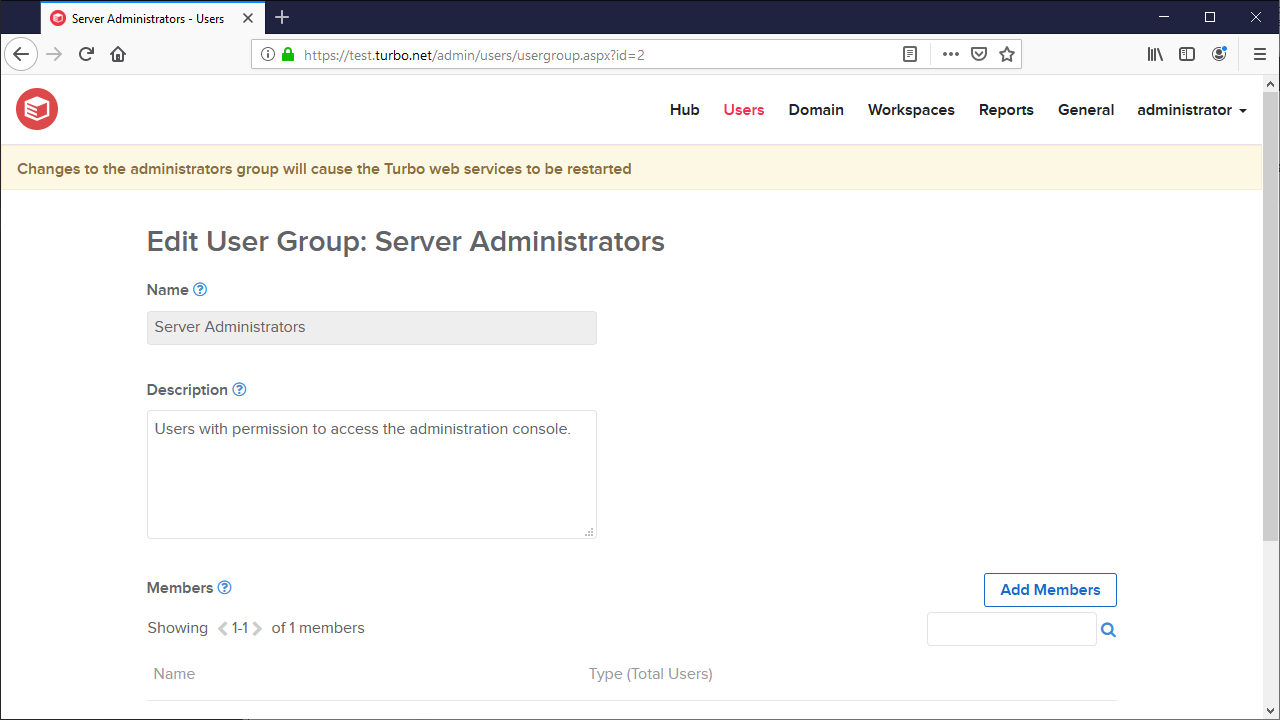
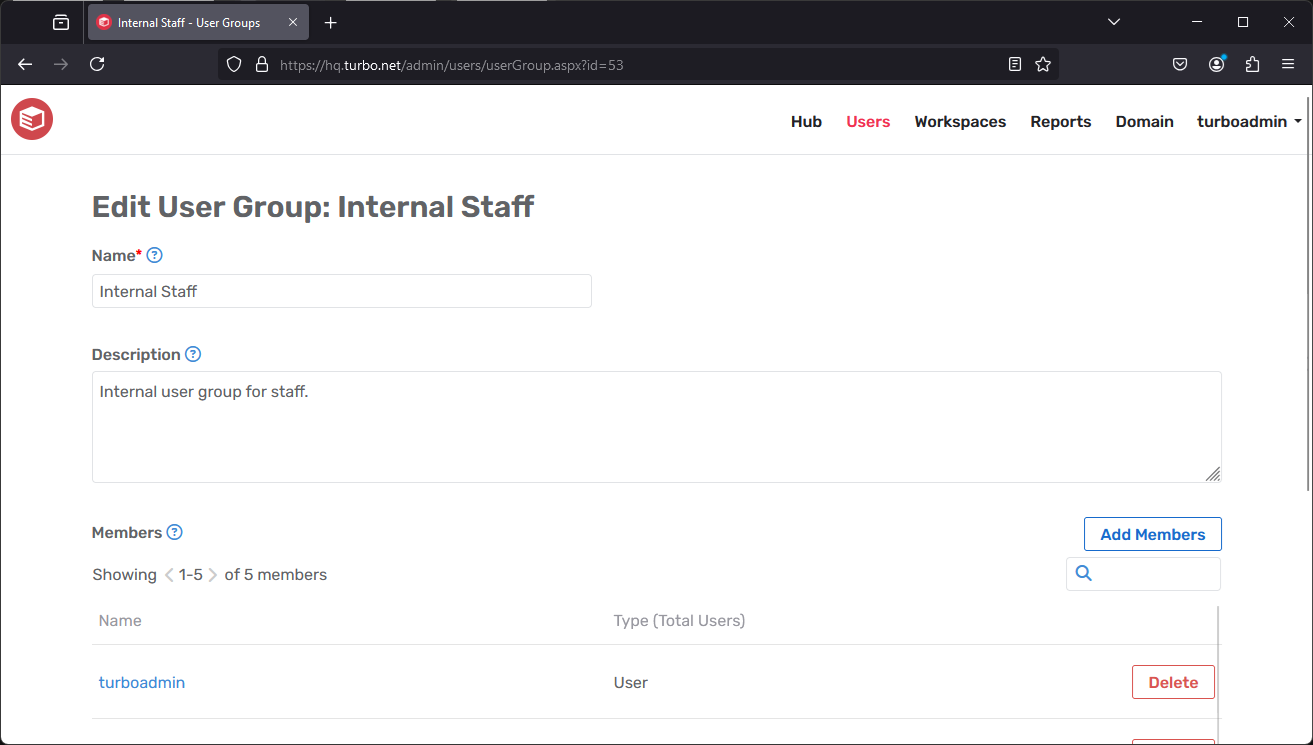
Update Users page
- Move API Keys from Hub to Users
- Add missing Users content
- Update Users screenshots

diff --git a/src/server/administration/users.md b/src/server/administration/users.md
@@ -1,22 +1,35 @@
 # Users
 
+Turbo Server users and user groups can be viewed and managed from the **Users** page on the Administration Site.
+
+Users and user groups can be created manually in the Internal directory, imported from LDAP/Active Directory directory services, or generated via Single Sign-On Authentication Providers.
+
+From this page, server administrators can also view and configure the current license usage and total licenses, Directory Services, Authentication Providers, Authentication Method, Device Keys, and API Keys.
+
+## Users and Groups
+
+### Creating Users
+
 ![Server admin users](/images/admin-users.png)
 
-Turbo Server users are tracked and managed via the Administration Site. Users are entered manually or via automated import from LDAP or Active Directory directory services. Users and user groups can be viewed and managed on the **Users** page. From this page you can view user directories, status, and available actions. Displayed above the user list is the total number of licenses available and the number of licenses currently in use.
+To manually create a user in the Internal directory, click on the **Add** button in the **Users** section from the **Users** page, then specify the Name, Login Name, Password, and Status for the user.
 
-Users can be internally created users, synchronized users from external directory services, or a user associated from a API key. API key users cannot be deleted unless the API key is deleted.
+For each **API Key**, an implicit users is created in the ApiKey directory. To remove the user, the associated API Key must be deleted.
 
-### Managing a User
+Users can also be automatically generated via [Directory Services](/server/administration/users.html#adding-an-external-directory-service) or [Single Sign-On](/server/administration/users.html#authentication-providers). Users generated via Directory Services will update on the next Directory Service synchronization. Users generated via Single Sign-On will update on user SSO login.
+
+### Managing Users
 
 ![Edit User](/images/user-edit.png)
 
-To manage a user, select the user name from the list on the **Users** page. The following fields are displayed on the page:
+To manage a user, click on the user name from the **Users** list on the **Users** page. The following fields are displayed on the page:
 
 - **Name**: Full name of the user.
 
 - **Login Name**: The unique login name for the user.
 
-- **Enabled**: Determines whether a user can access Turbo Server. After a user is disabled he no longer consumes a seat.
+- **Enabled**: Determines whether a user can access Turbo Server.  
+When a user is disabled, they no longer consume a license seat and cannot log in Turbo Server.
 
 #### User Permissions
 
@@ -28,19 +41,27 @@ For more user group management options, please see [Managing a User Group](/serv
 
 #### User Sessions
 
-![User Sessions](/images/image.png)
+![User Sessions](/images/user-sessions.png)
 
-The **Sessions** tab lists all persisted sessions for the user. Session persistence is enabled by the [Sessions are persistent](/server/administration/workspaces.html#editing-a-workspace-application) workspace application setting, which automatically synchronizes the user state and settings with Turbo Server.
+The **Sessions** tab lists all synchronized sessions for the user. Session synchronization is enabled by the [Synchronize across devices](/server/administration/workspaces.html#workspace-applications) workspace application setting, which automatically synchronize the user state and settings with Turbo Hub.
 
-**Reset**: Resetting a user session will delete all of the synchronized state and settings from Turbo Server. Sessions that are cached on the user's local device will be reset the next time they run with session persistence enabled.
+- **Reset**: Resetting a user session will delete all of the synchronized state and settings from Turbo Server. Sessions that are cached on the user's local device will be reset the next time they run with session synchronization enabled.
 
-**Delete**: Deleting a user session will delete all of the synchronized state and settings from Turbo Server. Sessions that are cached on the user's local device will not be deleted. To prevent the locally cached session from synchronizing to the server you may disable session persistence in the application settings.
+- **Delete**: Deleting a user session will delete all of the synchronized state and settings from Turbo Server. Sessions that are cached on the user's local device will not be deleted. To prevent the locally cached session from synchronizing to the server you may disable session synchronization in the workspace application settings.
 
-### Managing a User Group
+### Creating User Groups
+
+![Server admin users](/images/admin-user-groups.png)
+
+To manually create a user group in the Internal directory, click on the **Add** button in the **User Groups** section from the **Users** page, then specify the Name, Description, and Add Members to the group.
+
+Users groups can also be automatically generated via [Directory Services](/server/administration/users.html#adding-an-external-directory-service) or [Single Sign-On](/server/administration/users.html#authentication-providers). User group membership for groups generated via Directory Services will update on the next Directory Service synchronization. User group membership for groups generated via Single Sign-On will update on user SSO login.
+
+### Managing User Groups
 
 ![Server admin edit user group](/images/admin-user-group.png)
 
-To create a user group select **Add Group**. The **Add User Group** screen displays. This screen contains the following fields:
+To manage a user group click on the user group name from the **User Groups** list on the **Users** page. The following fields are displayed on the page:
 
 - **Name**: The group name that displayed on the user screen.
 
@@ -48,37 +69,35 @@ To create a user group select **Add Group**. The **Add User Group** screen displ
 
 - **Members**: Users and groups that are members of this group. Users and groups are inherited when including other groups as members. Add users or other groups by selecting **Add Members**.
 
-The following groups are special groups that are created automatically and cannot be deleted:
+The following groups are special groups in the Internal directory that are created automatically and cannot be deleted:
 
-- **Administrators**: This group will be able to log into the administration site and push shared images. Note that changes to the **Administrators** group will require a service restart before they are honored by the hub services. Access to the administration site will be honored immediately.
+- **Server Administrators**: This group will be able to log into the administration site and push shared images. Note that changes to the **Server Administrators** group will require a service restart before they are honored by the hub services. Access to the administration site will be honored immediately.
 
 - **Analysts**: Users in the Analysts group will have access to the [administration reports](/server/administration/reports). No other administrative permissions are granted beyond access to reports.
 
-- **Anonymous**: This group automatically includes any user discovered when the authentication mode is set to **Anonymous**.
+- **Anonymous**: This group automatically includes any user created via the **Anonymous** authentication mode.
 
 - **Everyone**: This group automatically includes all users regardless of authentication mode.
+
+## Directory Services
+
+![Server admin add directory service](/images/admin-users-directory-services.png)
+
+The Directory Services feature enables server administrators to easily import their users from their existing user directory into Turbo Server.
+
+Active Directory and LDAP services are managed at **Directory Services** on the **Users** page.
 
 ### Adding an External Directory Service
 
 ![Server admin add directory service](/images/admin-users-directory-service.png)
 
-Using Turbo Server you can add an external directory service, such as Active Directory. This enables you to manage users with the touch of a button and easily import existing users and groups into Turbo Hub Server. Complete the following steps to add an external directory service:
-
-1. Open a Turbo Server administration site page in your web browser.
-
-2. Choose the **Users** category from the top navigation bar.
-
-3. Select **Manage Directory Services**.
-
-4. Select **Add Service**. The **Add Directory Service** screen displays.
-
-5. Enter your specific settings into Turbo Server. Each section is detailed below.
+To add an external directory service, such as Active Directory or LDAP, click on the **Add** button on the **Users > Directory Services** page. The **Add Directory Service** screen will display with the configuration options, which are detailed below.
 
 **NOTE**: When identity federation is enabled from a source domain to target domain, avoid manual synchronization of directory services in the target domain. Doing so can lead to identity discrepancies, potentially preventing users from receiving updates from the source domain.
 
 **Note**: When synchronizing external directory-services containing of over 5,000 users, the command-line administration utility should be used instead of the Administrator web site. For more information on using the administration utility, see _Manage Turbo Server from the Command Line_. Synchronizing large directory services uses up to 1 GB memory per 500,000 users and groups on the hub server. Ensure that your hub server has enough memory to handle ordinary load when the directory service sync is running.
 
-## Directory Service Settings
+### Directory Service Settings
 
 | Section | Description |
 |---------|------------|
@@ -161,9 +180,9 @@ Users created by directory service synchronization are set to disabled by defaul
 
 **NOTE**: External users synchronized from active directory should not use the login prefix when logging in. User names must be unique, so if there are two users from different active directory sources, only the first one will be synchronized. Password verification is passed through to the active directory service and are not stored on Turbo Server.
 
-#### Troubleshooting
+### Troubleshooting Directory Services
 
-##### Domain identity federation did not update a user's groups
+#### Domain identity federation did not update a user's groups
 
 This issue can occur when a user that was previously created by domain identity federation is then synchronized through other means, such as manual directory synchronization in the target domain. In such cases, domain identity federation may bypass updates for the affected user, indicated by a specific log entry in the target domain's service logs:
 
@@ -173,32 +192,66 @@ This issue can occur when a user that was previously created by domain identity 
 
 To resolve this, delete the user from the target domain. Then, allow domain identity federation to re-synchronize the user from the source domain, ensuring proper update and synchronization of user group memberships.
 
-### Authentication Method
+## Authentication Providers
+
+![users-authentication-providers](/images/admin-users-authentication-providers.png)
+
+Server administrators can manage Single Sign-On authentication integrations at the **Users > Authentication Providers** page.
+
+To add a new Single Sign-On integration, click on the **Add** button on this page.
+
+To manage an existing Single Sign-On integration, click on its name under the Authentication Providers list.
+
+Single Sign-On configuration may vary by provider. See common OpenID and SAML examples in the [Authentication section](/server/authentication/azuread-openid-connect.html).
+
+## Authentication Method
 
 ![users-authentication-method](/images/authentication.png)
 
-The **Authentication Method** page configures which Authentication Method is used when an end-user logs into the Hub Site and Turbo Client. The supported methods are:
+The **Authentication Method** page configures which Authentication Method is used when an end user logs into the Turbo Portal and Turbo Client. The supported methods are:
 
 - **Anonymous**: Anonymous authentication allows users to access the Portal without logging in. All anonymous users are added to the **Anonymous Users** group.
 
-- **Username and Password**: Username and Password authentication requires users to provide their username and password in order to log in. Passwords may be managed from the user settings page.
+- **Username and Password**: Username and Password authentication requires users to provide their username and password in order to log in. This method is used when authenticating with users in the Internal directory or external directory service.
 
-- **Single Sign-On**: Single Sign-On authentication allows users to login to Turbo Server using an external directory service, such as Azure AD or ADFS. Turbo Server currently supports the following Single Sign-On Methods:
+- **Single Sign-On**: Single Sign-On authentication allows users to login using a Single Sign-On provider, such as Azure AD or ADFS. Turbo Server currently supports the following Single Sign-On Methods:
 
   - **OpenID Connect**: This option will redirect users an identity provider login page that supports OpenID Connect authentication. Upon a successful login, the user will be redirected back to Turbo Server and an account will be created using the basic profile information provided by the OpenID claims. Some example identity providers that support OpenID Connect include AzureAD and Google. For more information, refer to [OpenID Connect](/server/authentication/openid-connect).
 
   - **SAML 2.0**: This option will redirect users an identity provider login page that supports SAML 2.0 authentication. Upon a successful login, the user will be redirected back to Turbo Server and an account will be created using the basic profile information provided by the SAML response claims. Some example identity providers that support SAML 2.0 include AzureAD and ADFS. For more information, refer to [SAML 2.0](/server/authentication/saml).
 
-- **Accepted Tenants**: Restricts logins to users that belong to an accepted tenant IDs. Leave empty for no restrictions. This field only applies to multi-tenant Azure AD Single Sign-On. For more information on setting up multi-tenant Single Sign-On for Azure AD, see steps for [OpenID Connect](https://hub.turbo.net/docs/server/authentication/azuread-openid-connect#azure-ad-multi-tenancy) and [SAML](https://hub.turbo.net/docs/server/authentication/azuread-saml#azure-ad-multi-tenancy).
-
 - **Ticket Expiration Time**: The amount of time that a login ticket is valid. By default the login ticket when logging in from the Portal will be kept for 7 days if the remember me checkbox is enabled.
 
-- **Check for compromised passwords**: Checks the [haveibeenpwnd](https://haveibeenpwned.com/) database for compromised passwords when creating setting the password for internal users.
+- **Check for compromised passwords**: Checks the [haveibeenpwnd](https://haveibeenpwned.com/) database for compromised passwords when setting the password for users in the Internal directory. This setting is only available when using **Username and password** authentication.
+
+- **Authentication Provider**: Select the default Authentication Provider. This setting is only available when using **Single Sign-on** authentication.
 
 - **Integrated Windows Authentication Host**: The IP or hostname of the domain controller for clients using [IWA](/client/command-line/login). Select **Default** to automatically detect the domain controller's IP address.
 
-### Device Keys
+## Device Keys
 
 ![Server admin device keys](/images/admin-users-device-keys.png)
 
-The **Device Keys** page lists all devices that are registered to the Hub Server. Devices are automatically registered with the Hub Server when subscribing or installing applications. Device Keys may be deleted in order to immediately revoke that device's access to the Hub Server.
+The **Device Keys** page lists all devices that are registered to the Hub Server. Devices are automatically registered with the Turbo Hub when subscribing or installing applications. Device Keys may be deleted in order to immediately revoke that device's access to the Hub Server.
+
+## API Keys
+
+![Server admin hub api keys](/images/admin-api-keys.png)
+
+The **API Keys** page is used to manage the keys used to access Turbo Server.
+
+- **API Keys** allow you to log in to your Turbo Portal with a code other than with a username and password. This is useful when configuring automation or deployments where authentication via plain-text password or Single Sign-on is not desirable.  
+If an API Key has been compromised, it can be deleted to immediately revoke access.
+
+- **Configuration API Key** is used by the [Launch Configuration Service](/server/advanced-topics/launch-configuration-web-service) to post custom application configurations. Configurations posted with this API key are publicly accessible. This setting is recommended if you will be using an external portal instead of the Turbo Portal.  
+The **Configuration Cache Expiration** setting configures the length of time (in milliseconds) that a custom application configuration is valid after it is added to the launch configuration service. This timeout is reset any time the application configuration is accessed, such as during an application launch.
+
+![Server admin add API key](/images/admin-api-keys-add.png)
+
+To create a new API Key, click on the **Add** button from the **Users > API Keys** page. For each API Key, an implicit user is created in the ApiKey directory, which allows the user to be assigned to a User Group as well as given user permissions to workspaces. Deleting the API Key will delete the implicit user.
+
+- **Key Name**: the name of the API key.  
+It is recommended that the key name describes the general usage of the key and that distinct keys are used for distinct usages, so that not all usages will require an update if one key is compromised and needs to be refreshed.
+
+- **Run as System**: controls whether the key is given administrative privileges to push new images, delete repositories, and see all workspaces on the Turbo Portal.  
+Without this setting, the API key will only have read access to repositories and see only workspacess that it has explicit permissions for.

diff --git a/src/server/administration/hub.md b/src/server/administration/hub.md
@@ -50,20 +50,6 @@ The web application edit page has the following options available. These setting
 - **Open In New Tab**: Whether the URL will be opened in a new tab.
 - **Icon**: The icon that will be displayed to end-users on the Portal dashboard.
 
-### API Keys
-
-![Server admin hub api keys](/images/admin-api-keys.png)
-
-**API Keys** allow you to login to your hub with a code other than with a username/password. This is useful when configuring automation or in other scenarios where a plain text password is not desirable. If an API Key has been compromised, it can be refreshed to a new value or deleted to immediately revoke access.
-
-Additional, you can configure a **Configuration API Key** used by the [Launch Configuration Service](/server/advanced-topics/launch-configuration-web-service) to post custom application configurations. Configurations posted with this API key are publicly accessibly. This setting is recommended if you will be using an external portal instead of the Turbo Portal.
-
-The length of time (in milliseconds) that a configuration is valid after it is added to the launch configuration service can be configured with that **Configuration Cache Expiration** setting. This timeout is reset any time the application configuration is accessed, such as during an application launch.
-
-![Server admin add API key](/images/admin-api-keys-add.png)
-
-When adding an API Key, give it a name that describes the general usage of the key. It is also recommended to have distinct keys for distinct usages so that if one is compromised or updated, all usages will not require update. **Run as System** controls whether the key is given administrative privileges to push new images or delete repositories. Without this setting, the API key will only have read access to repositories.
-
 ### Federation
 
 The **Federation** page allows you to configure repository federation sources, which can be selected during repository import or applied to individual repositories to reduce setup time and keep repositories in sync across domains. Repositories that have federation enabled will periodically check the source domain for updates and pull any changes.

diff --git a/src/server/authentication/azuread-openid-connect.md b/src/server/authentication/azuread-openid-connect.md
@@ -78,7 +78,9 @@ Multi-tenancy allows users from different Azure AD tenants to login to Turbo Ser
 
 To configure multi-tenancy, view the Azure AD OIDC application from **Application Registrations**. On the **Authentication** tab, go to **Supported account types** and select `Accounts in any organizational directory (Any Azure AD directory - Multitenant)`.
 
-To only allow specific Azure AD tenants, see [Administering Authentication Method](/server/administration/users.html#authentication-method).
+To only allow specific Azure AD tenants, configure the **Accepted Tenants** setting under the Authentication Provider settings:
+
+- **Accepted Tenants**: Restricts logins to users that belong to the specified accepted tenant IDs. Leave empty for no restrictions. This field only applies to multi-tenant Azure AD Single Sign-On.
 
 ![oidc-multi-tenant](/images/oidc.png)
 

diff --git a/src/server/authentication/azuread-saml.md b/src/server/authentication/azuread-saml.md
@@ -131,7 +131,9 @@ Once generated, Turbo Server must be configured with the respective **Request Si
 
 ### Azure AD Multi-Tenancy
 
-Multi-tenancy allows users from different Azure AD tenants to login to Turbo Server using the same SSO configuration. It is recommended to switch to [Azure OpenID](/server/authentication/azuread-openid-connect) to enable multitenant authentication.
+Multi-tenancy allows users from different Azure AD tenants to login to Turbo Server using the same SSO configuration. 
+
+It is recommended to switch to [Azure OpenID](/server/authentication/azuread-openid-connect) to enable multitenant authentication.
 
 ### Troubleshooting Azure AD via SAML 2.0
 
